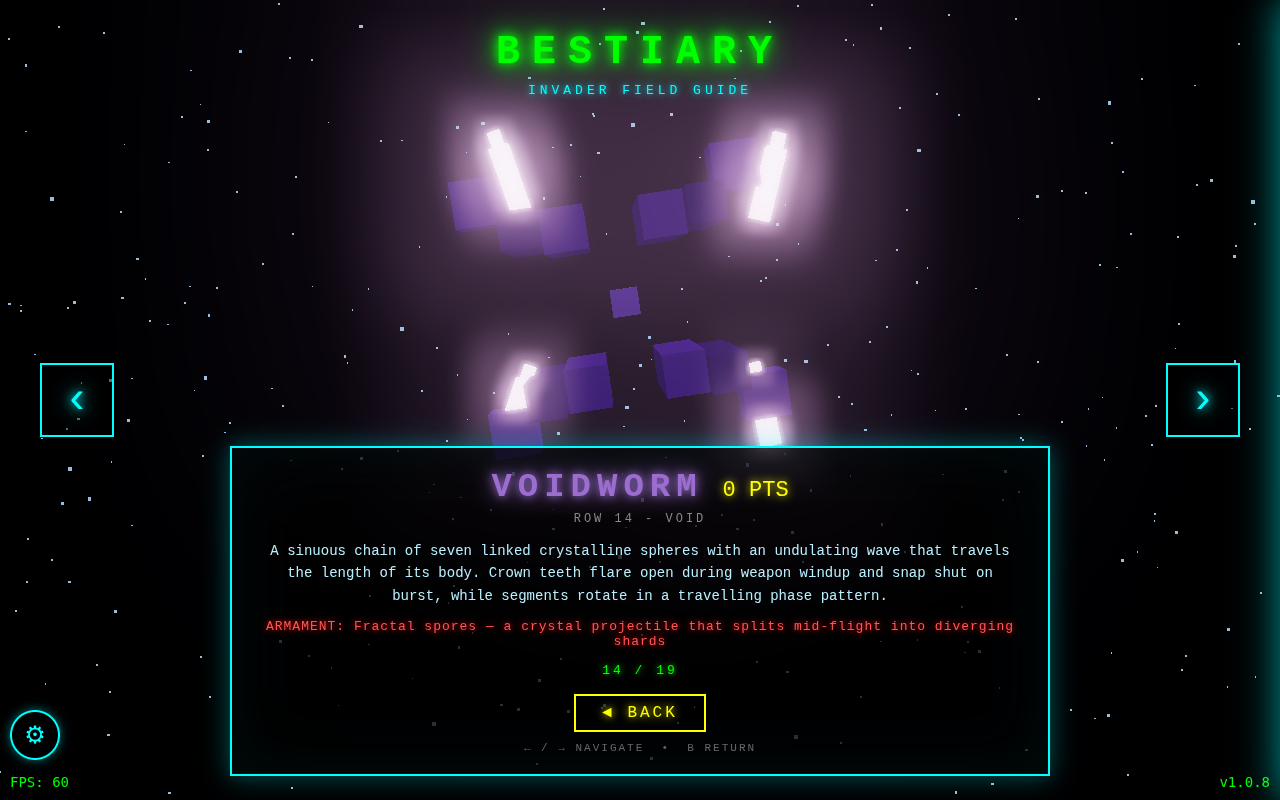
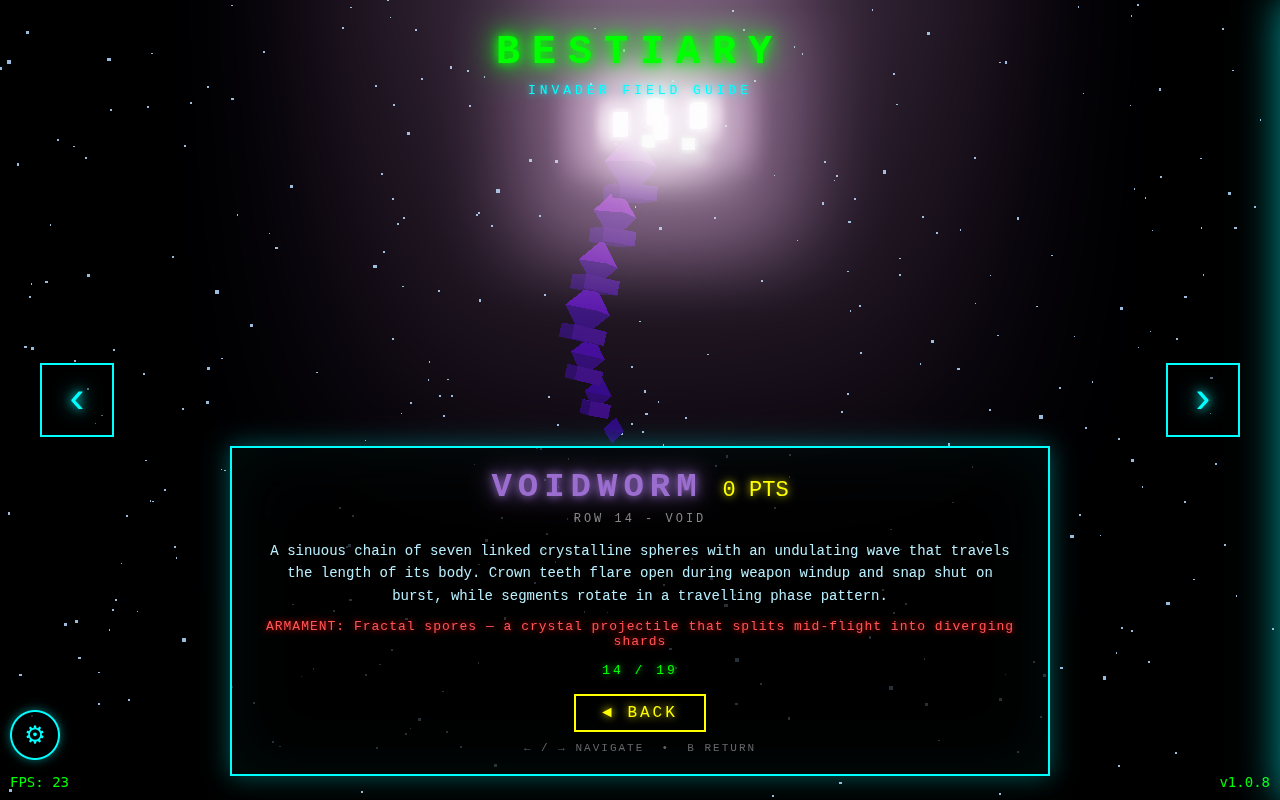
tooling: log fps in captures; status: human-eye review of VOIDWORM
capture-invader.mjs samples the #fps counter, prints a LOW warning under
30 and records it in .vision-audit.log, so a detail pass cannot quietly
cost frame budget. A/B: 23 fps at HEAD and at fff19f3 — the detail pass
is not a regression (the 57 fps seen earlier was the crashed build
skipping animateAlien entirely).

VOIDWORM-STATUS.md records a direct look at the frames: crown blows out
to featureless white, segments read as flat shards rather than crystals
with volume. Both outrank the grader one_fix.

Changed region(s): [[0.3125, 0.0, 0.6875, 0.5938], [0.0312, 0.9688, 0.0625, 1.0]]

diff --git a/VOIDWORM-STATUS.md b/VOIDWORM-STATUS.md
@@ -38,13 +38,39 @@ the lock. Keep it under ~60 lines: newest facts on top, prune stale detail.
 - `capture-invader.mjs` now exits **4** with a banner if the page throws.
   Exit 4 = your frames are not evidence. Fix, recapture, then grade.
 
+## Looked at with human eyes (2026-08-14 17:45) — outranks the grader
+
+Frames 1 and 5 of a clean 11-frame capture were viewed directly. The chain
+reads well: a serpentine column with a bright crown, clearly animating
+(it straightens and re-coils across the cycle). Two real problems the
+grader did not weight properly:
+
+1. **The crown blows out to a featureless white blob.** For most of the
+   cycle you cannot see teeth at all — just glare. The bestiary promises
+   "crown teeth flare open and snap shut" and that reads only in a couple
+   of frames. Teeth emissive runs `1.5 + windup * 3.0` (up to 4.5); that is
+   too hot against the bloom. Bring it down until the teeth are *shapes*,
+   not a lamp. This is the highest-value fix, ahead of the grader's.
+2. **The segments read as thin flat shards, not crystals with volume.**
+   The grader's `one_fix` says "add irregular sharp geometry" — they are
+   already angular. What is missing is *volume and light response*: they
+   look like flat paper triangles. Give them thickness and a lit facet
+   that catches the crown glow, rather than more jaggedness.
+
+Performance is fine: 23 fps in the bestiary preview both at HEAD and at
+fff19f3 (before the detail pass), so the spines/beads cost nothing
+measurable. `capture-invader.mjs` now prints and logs fps — an earlier
+reading of 57 was the *crashed* build skipping all animation work, not a
+faster one. Do not chase that number.
+
 ## Next
 
-1. Irregular crystalline geometry on the body segments (the `one_fix`).
-2. Recapture `FRAMES=11 GAP_MS=800`, confirm capture exits 0, then grade.
-3. The grader is ±2 noisy on identical builds — never revert on one low
+1. Tame the crown blowout so the teeth read as teeth (human-eye fix #1).
+2. Give the segments volume/lit facets rather than more jaggedness (#2).
+3. Recapture `FRAMES=11 GAP_MS=800`, confirm capture exits 0, then grade.
+4. The grader is ±2 noisy on identical builds — never revert on one low
    score. Look at the frames first; believe a pass only after `--confirm`.
-4. Anything the human sends by Telegram outranks the grader's `one_fix`.
+5. Anything the human sends by Telegram outranks everything above.
 
 ## Update template (replace sections above, keep headings)
 
